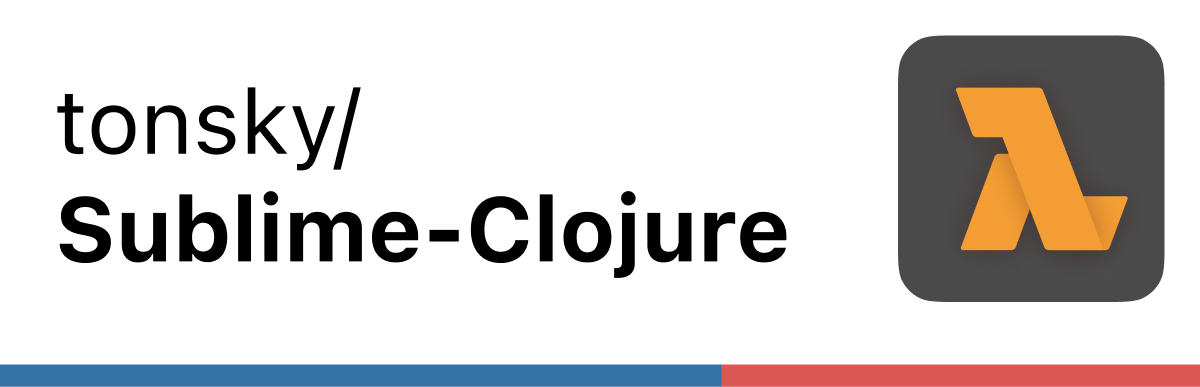
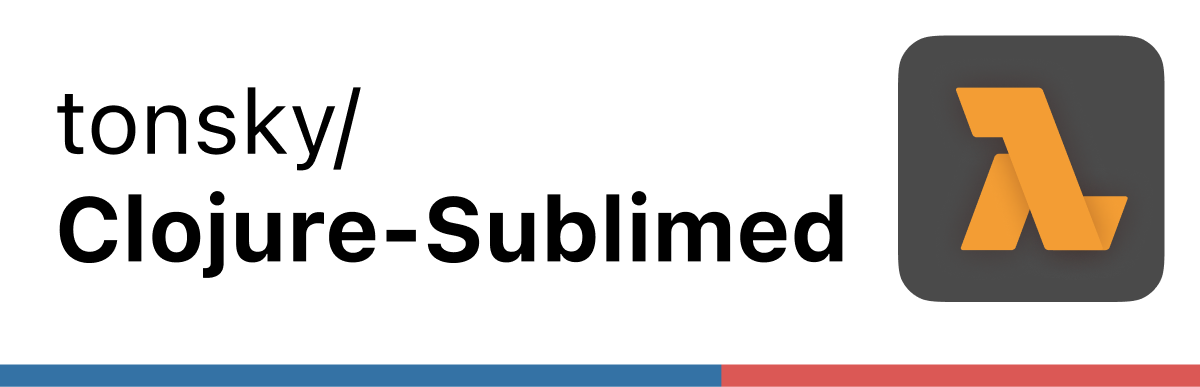
Sublime Clojure -> Clojure Sublimed

Changed region(s): [[0.0308, 0.4961, 0.6167, 0.7132], [0.6475, 0.4961, 0.7092, 0.6822]]

diff --git a/_posts/2021-12-13-sublime-clojure.md b/_posts/2021-12-13-sublime-clojure.md
@@ -7,11 +7,11 @@ hackernews_id: 29549392
 reddit_url: "https://www.reddit.com/r/Clojure/comments/rflhxf/sublime_clojure/"
 ---
 
-REPL is Clojure’s superpower. For a long time, I’ve been enjoying Sublime Text but was unable to match it with Clojure. This ends today: I’m happy to present my new Sublime Text plugin, [Sublime Clojure](https://github.com/tonsky/sublime-clojure).
+REPL is Clojure’s superpower. For a long time, I’ve been enjoying Sublime Text but was unable to match it with Clojure. This ends today: I’m happy to present my new Sublime Text plugin, [Clojure Sublimed](https://github.com/tonsky/Clojure-Sublimed).
 
 ## Road there
 
-The work started in 2018 when I got too annoyed with built-in Sublime Clojure grammar. It was there and highlighted _some_ things while reporting errors or misunderstanding others perfectly valid things:
+The work started in 2018 when I got too annoyed with built-in Clojure Sublimed grammar. It was there and highlighted _some_ things while reporting errors or misunderstanding others perfectly valid things:
 
 <figure>
   <img src="./grammar.png">
@@ -25,7 +25,7 @@ On top of that, Sublime just introduced nested contexts in their grammars, so I 
 
 I didn’t know that yet, but this fact will later allow me to utilize highlighting info to efficiently detect form boundaries. There’s a lesson there, I think: embrace the true nature in the API and it will pay off sooner or later.
 
-I never published this grammar as a separate package but have been using it since 2018 and it has been rock solid. It now comes as a part of the Sublime Clojure plugin, so feel free to install it. Even if you don’t need a REPL, it’s very useful.
+I never published this grammar as a separate package but have been using it since 2018 and it has been rock solid. It now comes as a part of the Clojure Sublimed plugin, so feel free to install it. Even if you don’t need a REPL, it’s very useful.
 
 To be honest, in the last three years the Clojure grammar that is built-in in Sublime Text was improved, too, from what I can see.
 
@@ -80,7 +80,7 @@ But this also means there are now two places to check, depending on how your `pr
 
 And it drove me crazy before: I was banging my head way too often trying to understand why my `println` prints nothing, only to realize I was looking in the wrong place.
 
-So Sublime Clojure just gets rid of this complexity. Any stdout, either from evaluation or from any other thread goes straight to `System.out`. If you want something else, just wrap your code with `(with-out-str ...) ` or `(binding [*out* ...] ...`).
+So Clojure Sublimed just gets rid of this complexity. Any stdout, either from evaluation or from any other thread goes straight to `System.out`. If you want something else, just wrap your code with `(with-out-str ...) ` or `(binding [*out* ...] ...`).
 
 As an added bonus, there’s no extra panel to manage. There might be one if you choose to start your Clojure program directly from Sublime, but it’s completely up to you.
 
@@ -112,13 +112,13 @@ Compare:
     <img src="./trace.png">
 </figure>
 
-Sublime Clojure makes an effort to clean it up, present Clojure functions with their original names, and remove the parts that happen inside middleware, nREPL, Clojure runtime, or in a Clojure compiler. Most of the time you want to debug your own app, not the REPL or clojure.core.
+Clojure Sublimed makes an effort to clean it up, present Clojure functions with their original names, and remove the parts that happen inside middleware, nREPL, Clojure runtime, or in a Clojure compiler. Most of the time you want to debug your own app, not the REPL or clojure.core.
 
-It’s been two weeks since I started using Sublime Clojure REPL myself. And you know what? I started to really enjoy Clojure exceptions! Short, concise, pointing directly to the error, formatted in Clojure naming convention, not in Java munged style which you need to decypher back to Clojure. It’s a fantastic experience, even if on paper it doesn’t sound as much.
+It’s been two weeks since I started using Clojure Sublimed REPL myself. And you know what? I started to really enjoy Clojure exceptions! Short, concise, pointing directly to the error, formatted in Clojure naming convention, not in Java munged style which you need to decypher back to Clojure. It’s a fantastic experience, even if on paper it doesn’t sound as much.
 
 ### Little conveniences
 
-Sublime Clojure will display the time it took to run your command if it took more than 100 ms (configurable).
+Clojure Sublimed will display the time it took to run your command if it took more than 100 ms (configurable).
 
 <figure>
     <img src="./elapsed.png">
@@ -162,7 +162,7 @@ Your imagination is the limit! Send me crazy progress bars you come up with!
 
 ### Overloaded shortcuts
 
-Human memory is limited, so some commands in Sublime Clojure do different things depending on the context.
+Human memory is limited, so some commands in Clojure Sublimed do different things depending on the context.
 
 `Ctrl` + `Enter` evals topmost form if there’s no selection, but current selection if there is one.
 
@@ -186,7 +186,7 @@ Every project is different, and sometimes it’s convenient to run a piece of co
 
 Trick is, it’s hard for plugin developer to know what you might need in advance. That’s why best way to address this need is to give users the ultimate tool: ability to run code.
 
-To support such use cases, Sublime Clojure allows you to bind arbitrary piece of code to a keyboard shortcut. E.g. by adding something like this:
+To support such use cases, Clojure Sublimed allows you to bind arbitrary piece of code to a keyboard shortcut. E.g. by adding something like this:
 
 ```
 {"keys": ["ctrl+t"],
@@ -204,7 +204,7 @@ The result is conveniently displayed in the status bar.
 
 ### nREPL
 
-Sublime Clojure chooses to communicate with nREPL instead of Socket REPL/pREPL/unREPL. Why?
+Clojure Sublimed chooses to communicate with nREPL instead of Socket REPL/pREPL/unREPL. Why?
 
 Because (surprisingly) all other REPLs are built for interactive use. Using web analogy: they are all human-readable HTML pages when nREPL is the JSON API: it’s machine-oriented. It would be strange to build tools on top of human-readable web page, right?
 
@@ -237,10 +237,10 @@ In other words, I don’t really see an alternative. And I’m also surprised ho
 The initial version is out now on GitHub (Package Control [will come later](https://github.com/wbond/package_control_channel/pull/8394)). All the instructions can be found in the repo:
 
 <figure>
-    <a href="https://github.com/tonsky/sublime-clojure"><img src="./banner.png"></a>
+    <a href="https://github.com/tonsky/Clojure-Sublimed"><img src="./banner.png"></a>
 </figure>
 
-Feel free to try it out and leave feedback [in the issues](https://github.com/tonsky/sublime-clojure/issues).
+Feel free to try it out and leave feedback [in the issues](https://github.com/tonsky/Clojure-Sublimed/issues).
 
 For future plans, check out the issues in the repo, too. There’s a few already, perfect if you want to help. Come help me improve this!
 
